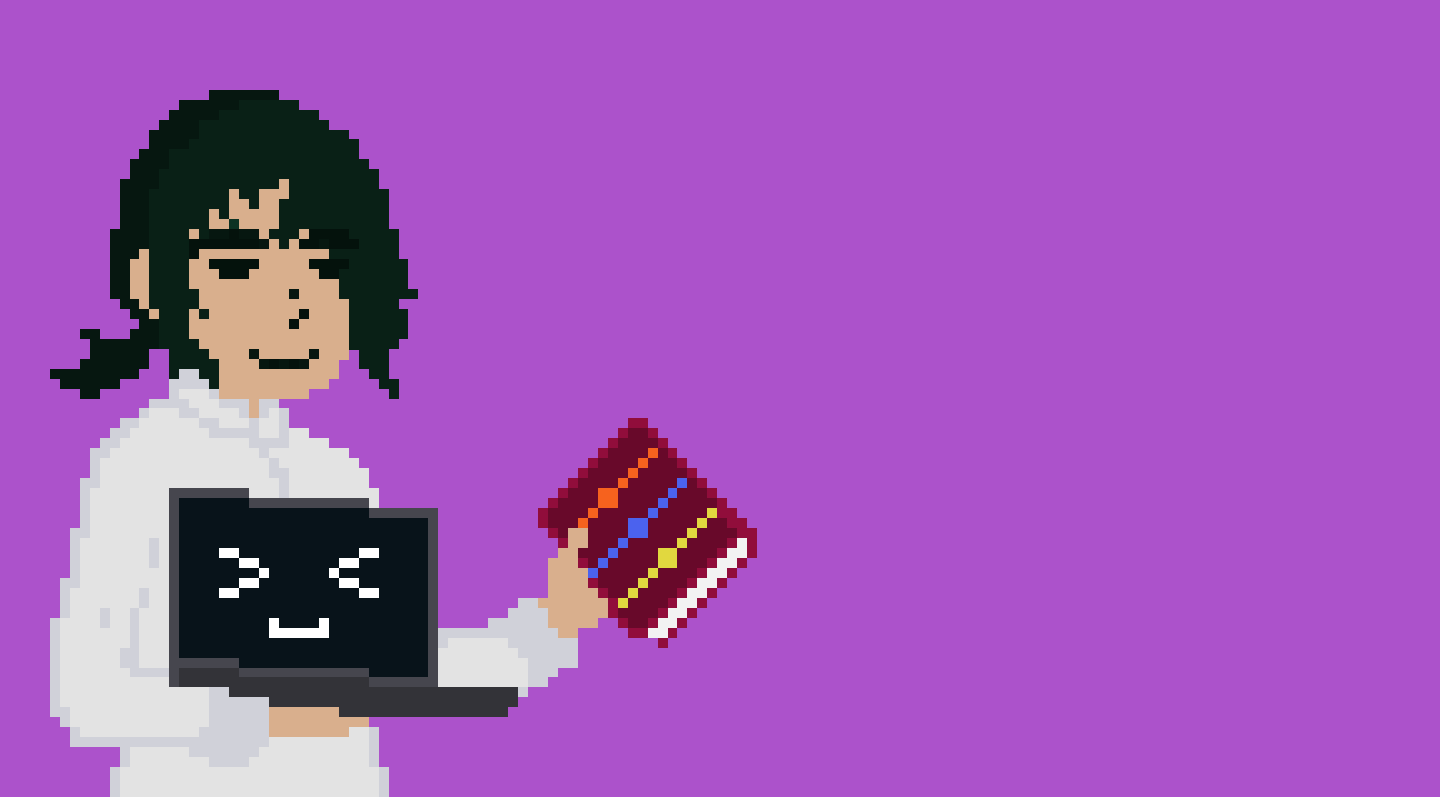
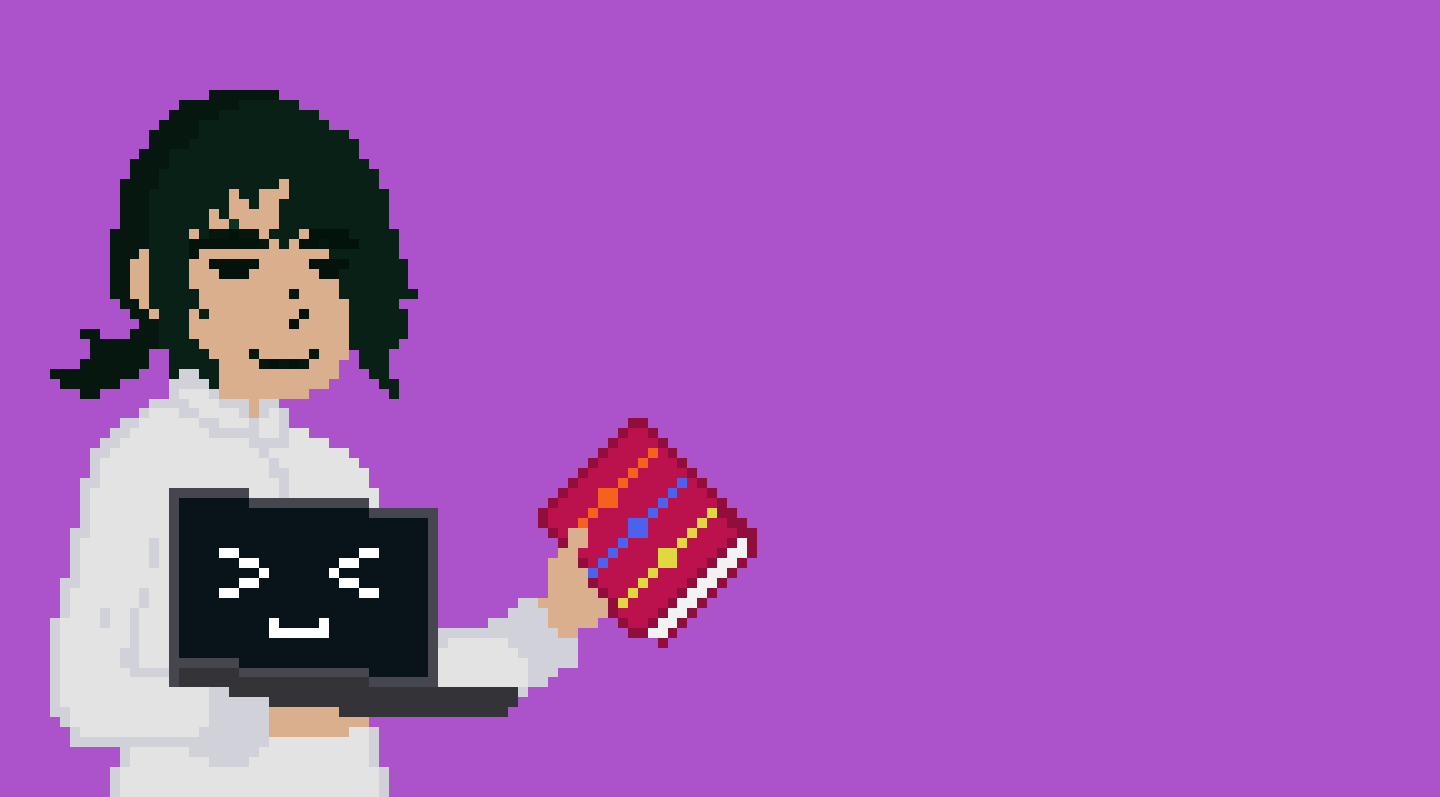
Create the skill-tec component

Changed region(s): [[0.375, 0.542, 0.5312, 0.7829]]

diff --git a/index.html b/index.html
@@ -12,7 +12,7 @@
     <link href="https://fonts.googleapis.com/css2?family=JetBrains+Mono:wght@300;500&family=Press+Start+2P&display=swap" rel="stylesheet"> 
     <link rel="stylesheet" href="css/reset.css">
     <link rel="stylesheet" href="css/index.css">
-    <link rel="stylesheet" href="css/components/title.css">
+    <link rel="stylesheet" href="css/components/main-title.css">
     <link rel="stylesheet" href="css/components/subtitle.css">
     <link rel="stylesheet" href="css/components/boxTitle.css">
     <link rel="stylesheet" href="css/components/button.css">
@@ -20,6 +20,8 @@
     <link rel="stylesheet" href="css/components/header.css">
     <link rel="stylesheet" href="css/components/banner.css">
     <link rel="stylesheet" href="css/components/section.css">
+    <link rel="stylesheet" href="css/components/skill-tec.css">
+    <link rel="stylesheet" href="css/components/progress-bar.css">
 </head>
 <body>
     <header class="header">
@@ -37,7 +39,7 @@
     <section class="banner">
         <div class="wrapper">
             <div class="boxTitle">
-                <h1 class="title">Pablo Augusto</h1>
+                <h1 class="main-title">Pablo Augusto</h1>
                 <h2 class="subtitle">FrontEnd Developer</h2>
             </div>
 
@@ -49,7 +51,18 @@
     </section>
 
     <section class="section">
-        <h2 class="title -second">Skills</h2>
+        <h2 class="main-title -second">Skills</h2>
+
+        <article class="skill-tec">
+            <img class="icon" src="img/ico_html5.png" alt="logo html5 pixel art">
+            <div class="right">
+                <h2 class="title">HTML</h2>
+                
+                <progress class="progress-bar" max="100" value="70">
+                    70%
+                </progress>
+            </div>
+        </article>
     </section>
 </body>
 </html>

diff --git a/css/components/skill-tec.css b/css/components/skill-tec.css
@@ -1,0 +1,16 @@
+.skill-tec {
+    display: flex;
+    font-family: "Press Start 2P", sans-serif;
+    font-size: 25px;
+    color: #FFF;
+}
+
+.skill-tec .icon {
+    margin-right: 25px;
+}
+
+.skill-tec .right {
+    display: flex;
+    flex-direction: column;
+    justify-content: space-around;
+}

diff --git a/css/components/section.css b/css/components/section.css
@@ -1,5 +1,5 @@
 .section {
-    background-color: chocolate;
+    background-color: #bb114d;
     padding-top: 50px;
     padding-bottom: 100px;
     border-bottom: 10px solid #000;
